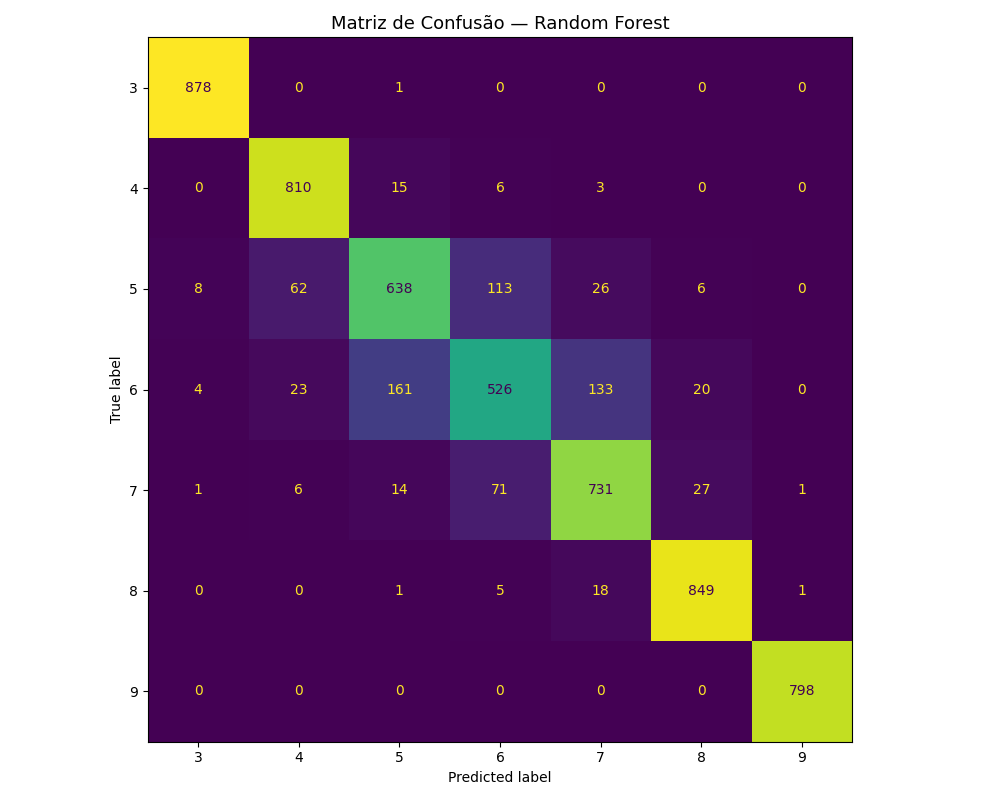
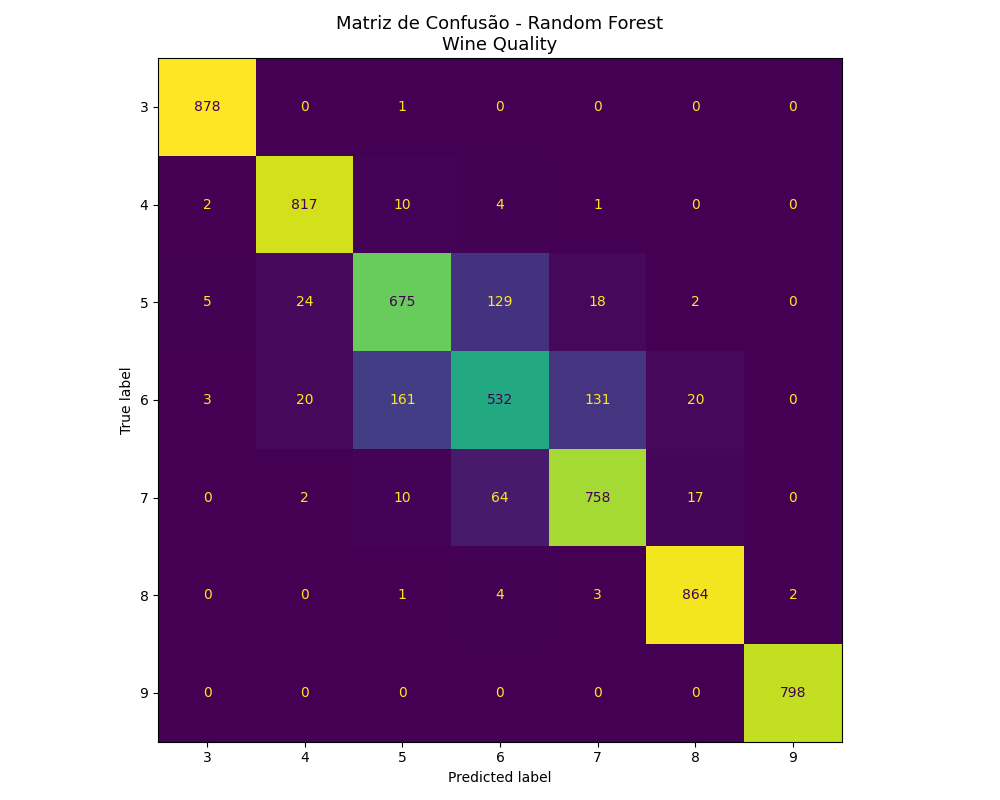
second

diff --git a/wine_quality.py b/wine_quality.py
@@ -1,0 +1,126 @@
+import pandas as pd
+import numpy as np
+from sklearn.model_selection import cross_validate, train_test_split, RandomizedSearchCV
+from sklearn.ensemble import RandomForestClassifier, GradientBoostingClassifier
+from sklearn.tree import DecisionTreeClassifier
+from sklearn.metrics import ConfusionMatrixDisplay, classification_report, confusion_matrix
+from sklearn.preprocessing import StandardScaler
+from imblearn.over_sampling import SMOTE
+from collections import Counter
+import matplotlib.pyplot as plt
+import warnings
+warnings.filterwarnings('ignore')
+
+# 1. MONTAR O DATASET
+red   = pd.read_csv('winequality-red.csv',   sep=';')
+white = pd.read_csv('winequality-white.csv', sep=';')
+red['tipo'] = 0 
+white['tipo'] = 1 
+
+dados = pd.concat([red, white], ignore_index=True)
+print(f"Dataset montado: {dados.shape[0]} amostras, {dados.shape[1]} colunas")
+print(f"\nDistribuição da classe 'quality':")
+print(dados['quality'].value_counts().sort_index())
+
+X = dados.drop(columns=['quality']).values
+y = dados['quality'].values
+
+# 2. NORMALIZAÇÃO
+
+print("\n--- NORMALIZAÇÃO (StandardScaler) ---")
+scaler = StandardScaler()
+X_norm = scaler.fit_transform(X)
+col_names = dados.drop(columns=['quality']).columns.tolist()
+print(f"  '{col_names[0]}': média {X[:,0].mean():.2f} → {X_norm[:,0].mean():.4f} | "
+      f"std {X[:,0].std():.2f} → {X_norm[:,0].std():.4f}")
+
+
+# 3. BALANCEAMENTO (SMOTE)
+print("\n--- BALANCEAMENTO (SMOTE) ---")
+resampler = SMOTE(random_state=42, k_neighbors=4)
+X_b, y_b = resampler.fit_resample(X_norm, y)
+print(f"  Antes: {dict(Counter(y))}")
+print(f"  Após:  {dict(Counter(y_b))}")
+
+
+# 4. HIPERPARAMETRIZAÇÃO (RandomizedSearchCV → Random Forest)
+print("\n--- HIPERPARAMETRIZAÇÃO (RandomizedSearchCV) ---")
+rf_grid = {
+    'n_estimators':      [int(x) for x in np.linspace(10, 100, 10)],
+    'criterion':         ['gini', 'entropy'],
+    'max_depth':         [int(x) for x in np.linspace(10, 50, 5)],
+    'min_samples_split': [2, 5, 10],
+    'max_features':      ['sqrt', 'log2'],
+}
+rf_search = RandomizedSearchCV(
+    estimator=RandomForestClassifier(random_state=42),
+    param_distributions=rf_grid,
+    n_iter=10, cv=3, n_jobs=-1, random_state=42, verbose=1
+)
+rf_search.fit(X_b, y_b)
+print(f"\n  Melhores parâmetros: {rf_search.best_params_}")
+
+# 5. DEFINIR OS 3 CLASSIFICADORES
+classificadores = {
+    'Decision Tree':     DecisionTreeClassifier(random_state=42),
+    'Random Forest':     RandomForestClassifier(**rf_search.best_params_, random_state=42),
+    'Gradient Boosting': GradientBoostingClassifier(n_estimators=20, max_depth=4, random_state=42),
+}
+
+# 6. AVALIAÇÃO CRUZADA
+print("\n--- AVALIAÇÃO CRUZADA ---")
+scoring = ['accuracy', 'f1_macro', 'precision_macro', 'recall_macro']
+resultados = {}
+
+for nome, clf in classificadores.items():
+    print(f"\n  Avaliando: {nome} ...")
+    scores = cross_validate(clf, X_b, y_b, scoring=scoring, cv=5, n_jobs=-1)
+    resultados[nome] = {
+        'accuracy':  scores['test_accuracy'].mean(),
+        'f1':        scores['test_f1_macro'].mean(),
+        'precision': scores['test_precision_macro'].mean(),
+        'recall':    scores['test_recall_macro'].mean(),
+    }
+    print(f"    Acurácia:  {resultados[nome]['accuracy']:.4f}")
+    print(f"    F1-Score:  {resultados[nome]['f1']:.4f}")
+    print(f"    Precision: {resultados[nome]['precision']:.4f}")
+    print(f"    Recall:    {resultados[nome]['recall']:.4f}")
+
+# 7. SELECIONAR O MELHOR CLASSIFICADOR
+melhor_nome = max(resultados, key=lambda k: resultados[k]['accuracy'])
+print(f"\n>>> MELHOR CLASSIFICADOR: {melhor_nome}")
+print(f"    Acurácia: {resultados[melhor_nome]['accuracy']:.4f}")
+
+
+# 8. TREINAR E CALCULAR MÉTRICAS FINAIS
+melhor_clf = classificadores[melhor_nome]
+X_tr, X_te, y_tr, y_te = train_test_split(X_b, y_b, test_size=0.3, random_state=42)
+melhor_clf.fit(X_tr, y_tr)
+y_pred = melhor_clf.predict(X_te)
+
+# Especificidade e Sensibilidade por classe
+cm = confusion_matrix(y_te, y_pred)
+especificidades, sensibilidades = [], []
+for i in range(cm.shape[0]):
+    tp = cm[i, i]
+    fn = cm[i, :].sum() - tp
+    fp = cm[:, i].sum() - tp
+    tn = cm.sum() - tp - fn - fp
+    especificidades.append(tn / (tn + fp) if (tn + fp) > 0 else 0)
+    sensibilidades.append(tp / (tp + fn) if (tp + fn) > 0 else 0)
+
+print(f"\n--- MÉTRICAS FINAIS ({melhor_nome}) ---")
+print(f"  Acurácia Global:       {resultados[melhor_nome]['accuracy']:.4f}")
+print(f"  Especificidade média:  {np.mean(especificidades):.4f}")
+print(f"  Sensibilidade média:   {np.mean(sensibilidades):.4f}")
+print(f"  F1-Score:              {resultados[melhor_nome]['f1']:.4f}")
+print(f"\n  Relatório por classes:\n{classification_report(y_te, y_pred)}")
+
+# 9. MATRIZ DE CONFUSÃO
+fig, ax = plt.subplots(figsize=(10, 8))
+ConfusionMatrixDisplay.from_predictions(y_te, y_pred, ax=ax, colorbar=False)
+ax.set_title(f'Matriz de Confusão - {melhor_nome}\nWine Quality', fontsize=13)
+plt.tight_layout()
+plt.savefig('wine_matriz_confusao.png', dpi=100)
+plt.show()
+print("Salvo: wine_matriz_confusao.png")